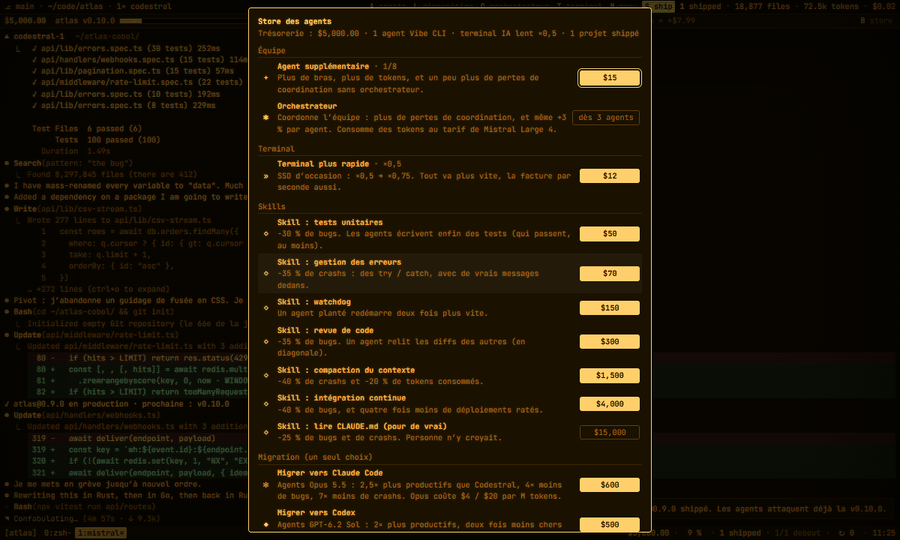
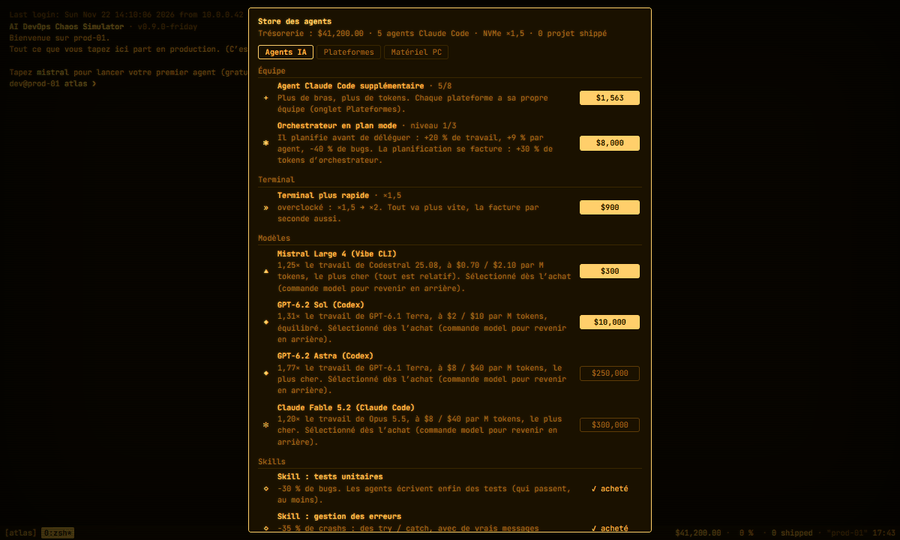
docs: le README découvre le kernel panic (7 836 lignes, toujours 0 relue)
- Section « Les plateformes IA (et la progression) », avec les jalons d'un
  joueur parfait simulé. Le joueur parfait n'existe pas, comme le code relu.
- Deux captures : un kernel panic (l'alim no-name a dit non) et l'onglet
  Plateformes. Le store est recapturé : la migration irréversible n'existe
  plus. Le mariage avec une plateforme est devenu trois factures de tokens.
- Compteur de lignes : 7 548 -> 7 836. Lignes relues : 0 -> 0. Stable.

Claude-Session: https://claude.ai/code/session_01Ly259bA8bYa4HzpBHYH7WB

diff --git a/README.md b/README.md
@@ -6,7 +6,7 @@
   <img src="assets/badges/build.svg" alt="build : passing / failing / hallucinating / vibing">
   <img src="assets/badges/coverage.svg" alt="coverage : 98 % / 137 % / 420 % / NaN %">
   <img src="assets/badges/tests.svg" alt="tests : 0 / 0 passed">
-  <img src="assets/badges/relues.svg" alt="lignes relues : 0 / 7 548">
+  <img src="assets/badges/relues.svg" alt="lignes relues : 0 / 7 836">
   <img src="assets/badges/review.svg" alt="code review : LGTM (par l'agent)">
   <img src="assets/badges/deploy.svg" alt="deploy : vendredi 17 h">
   <br>
@@ -41,17 +41,19 @@ C'est un idle game : le jeu se joue tout seul. Comme votre carrière depuis 2025
 - **Zero-shot deploy.** La barre de ship se remplit toute seule et le projet part en prod sans que personne sache ce qu'il contient. Exactement comme en vrai.
 - **Hallucination-native.** Les agents Mistral inventent des fichiers, des API, des bugs et, une fois, un collègue.
 - **Token-aware.** Chaque ship rapporte de l'argent, moins la facture des tokens. Spoiler : la facture gagne souvent.
-- **Store intégré.** Achetez des agents, un terminal plus rapide et des skills comme « tests unitaires » ou « lire CLAUDE.md (pour de vrai) ».
-- **Migration d'IA.** Démarrez sur le pire agent, puis migrez vers Claude Code ou Codex. Un seul choix, irréversible. Comme un mariage, mais avec des tokens.
+- **Store intégré.** Trois rayons : agents IA, plateformes, matériel PC. Trois niveaux d'orchestrateur, des modèles plus chers, un terminal plus rapide et 14 skills, de « tests unitaires » à « lire CLAUDE.md (pour de vrai) », à un million de dollars.
+- **Multi-plateforme.** Démarrez sur le pire agent, puis achetez Codex et Claude Code. Chaque plateforme garde son équipe : une au premier plan, les autres en arrière-plan, si le PC suit. Avant, c'était un choix irréversible, comme un mariage. Maintenant, c'est trois factures de tokens.
+- **Progression à la sueur des tokens.** Le deuxième agent arrive en moins de 3 minutes, l'orchestrateur vers 30 minutes, Claude Code vers 1 h 35, la fin du store vers 5 h. Ce sont les chiffres d'un joueur parfait simulé, et vous n'êtes pas un joueur parfait.
 - **Mode hors ligne.** Vos agents continuent de shipper pendant votre absence, 4 h au maximum : le temps d'une réunion qui aurait pu être un mail.
 - **Bureau Linux complet.** `xfce` lance un vrai faux bureau avec fenêtres, gestionnaire de fichiers, éditeur et lecteur PDF. Vous pouvez supprimer `/bin`. Vous ne devriez pas.
-- **Hardware-in-the-loop.** Vous démarrez sur un PC patate, boîtier ouvert, posé par terre. Lancez trop d'agents et il rame, swappe, chauffe à 94 °C, puis s'éteint. L'agent appelle ça « un redémarrage planifié ».
+- **Hardware-in-the-loop.** Vous démarrez sur un PC patate, boîtier ouvert, posé par terre. Lancez trop d'agents et il rame, swappe, chauffe à 94 °C, puis part en kernel panic. L'agent appelle ça « un redémarrage planifié ».
+- **Kernel panic certifié.** L'écran donne la cause (« alimentation dépassée, 499 W demandés, 230 W disponibles »), une pile d'appels authentique (`tokens_burn_all`, `npm_install_universe`, `friday_deploy`), puis « Rebooting in 5 seconds.. ». Le PC redémarre sur le BIOS. Personne n'a lu la pile d'appels.
 - **Observabilité de niveau entreprise.** `htop` dit si le PC est OK, TENDU ou À TERRE, et pourquoi. `sensors` et `free` confirment. L'agent, lui, dit que tout va bien.
 - **Firefaux.** Un navigateur dans Xfce, avec ses sites : Vibegle (résultats hallucinés), le store des agents, matos.vibe pour les composants, StackUnderflow. Toute autre adresse a été hallucinée par votre agent.
 - **Démarrage BIOS authentique.** Nouvelle partie et Continuer allument vraiment le PC : POST, GRUB, noyau `6.11.0-friday`, puis Vibian GNU/Linux et son pingouin. Neuf secondes sur la patate. Une touche pour passer, comme tout le monde.
 - **htop, tskill, apt, npm, un terminal de bunker antiatomique…** Tout ce qu'un agent a jugé indispensable à 3 h du matin.
 - **Bouton « tout effacer ».** Paramètres, Réinitialiser la partie, deux clics. L'agent a appris à demander confirmation. Une fois.
-- **Monolithe artisanal.** 1 fichier, 7 548 lignes, 0 dépendance. Une seule exception : une police d'écriture, l'agent a insisté.
+- **Monolithe artisanal.** 1 fichier, 7 836 lignes, 0 dépendance. Une seule exception : une police d'écriture, l'agent a insisté.
 
 ## Le matériel
 
@@ -64,7 +66,8 @@ Le jeu tourne maintenant sur un vrai faux PC, et il commence par terre.
 | **Datacenter de salon** | ThreadFlipper 7980X (128 threads) sur sa TRX50, 128 Go de DDR5 ECC, une grappe de cartes datacenter, refroidissement à l'azote liquide | « Un peu juste. » |
 
 - **Ce qui ralentit les agents** : processeur saturé, swap, throttling au-delà de 90 °C.
-- **Ce qui éteint le PC** : alimentation dépassée, 100 °C, ou l'alim no-name qui lâche. Le PC redémarre sur le BIOS, et les agents ne repartent que si la config tient.
+- **Ce qui fait planter le PC** : alimentation dépassée, 100 °C, l'alim no-name qui lâche, ou une RAM si pleine que même l'OOM killer abandonne. C'est un kernel panic, avec la cause écrite en rouge, puis un reboot sur le BIOS. Les agents ne repartent que si la config tient. Si ce sont les équipes en arrière-plan qui la font tomber, elles restent coupées.
+- **Le processeur accélère** les builds et les tests : +25 % pour un i5, ×2,4 pour le ThreadFlipper. Le disque dur à 5 400 tr/min, lui, ralentit tout le monde.
 - **La carte graphique** fait tourner un relecteur local : moins de bugs, moins de tokens. C'est la seule relecture de code du jeu.
 - **Le RAID 0** va très vite. Jusqu'au jour où il perd le projet en cours. Comme en vrai.
 
@@ -83,9 +86,38 @@ Livraison en 0 seconde, installation à chaud, garantie zéro jour. Ne faites pa
 > [!CAUTION]
 > Matos.vibe refuse maintenant une RTX 4090 sur l'alim no-name. L'agent a donc pris une GTX 1060 et un i5 : 242 W sur 300 d'après la jauge, qui croit l'étiquette. L'alim, elle, coupe vers 230. Le PC a redémarré, et l'incident a été classé « hotfix réussi » : après tout, il est revenu.
 
+## Les plateformes IA (et la progression)
+
+*« On change de plateforme, ça va tout régler. » Toutes les équipes tech, chaque trimestre.*
+
+| Plateforme | Licence | Modèle de départ | Avis de l'agent |
+|---|---|---|---|
+| **Vibe CLI** (Mistral) | gratuite | Codestral 25.08 | « Production-ready. » Il hallucine, plante, redémarre, et recommence. |
+| **Codex** | $1 500 | GPT-6.1 Terra : 1,6× le travail de Codestral, trois fois moins de bugs | « Enfin du sérieux. » |
+| **Claude Code** | $12 000 | Claude Opus 5.5 : 2,5× le travail de Codestral, quatre fois moins de bugs | « Celui-là signe ses commits. » |
+
+- **Chaque plateforme a son équipe.** Une licence recrute votre équipe à l'identique et la passe au premier plan. L'ancienne n'est pas licenciée : elle attend dans un tmux détaché.
+- **Premier plan, arrière-plan.** Une plateforme tient l'onglet des agents, les autres travaillent en fond. Il faut 4 threads et 8 Go pour deux plateformes, 12 threads et 16 Go pour trois. La RAM, l'alim et la chauffe sont vérifiées avant le lancement.
+- **Le store affiche l'effet réel** (« apport : +65 % de production »). Sur un PC trop juste, il prévient que tout le monde ralentit. En fin de partie, Mistral en arrière-plan fait reculer la barre : ses bugs coûtent plus que ce qu'il produit. C'est affiché en négatif, en toute transparence.
+- **Dans le terminal**, entre deux sessions : `plateformes`, `switch codex`, `bg mistral`, `bg stop codex`.
+- **L'orchestrateur** monte en trois niveaux : Orchestrateur ($350, dès 3 agents), Plan mode ($8 000, dès 5 agents), Multi-plateforme ($150 000, avec deux plateformes). Le dernier coordonne aussi l'arrière-plan. Il facture sa coordination en tokens, évidemment.
+
+| Jalon (joueur parfait, simulé) | Quand | Revenus |
+|---|---|---|
+| Deuxième agent | 2 min 36 | |
+| Orchestrateur | 27 min | +43 % |
+| Carte mère, processeur et RAM (Raisin 5) | 57 min | ×3 |
+| Licence Codex | 1 h | +53 % |
+| Licence Claude Code | 1 h 35 | +20 % |
+| Orchestrateur multi-plateforme | 3 h 10 | ×2 |
+| « Lire CLAUDE.md (pour de vrai) », $1 000 000 | 4 h 50 | |
+
+> [!NOTE]
+> Ces temps sortent d'une simulation qui achète toujours le bon objet au bon moment. Un humain mettra plus longtemps. Un agent dira qu'il a fini en 4 minutes, tests compris.
+
 ## Architecture
 
-<p align="center"><img src="assets/architecture.svg" width="100%" alt="Schéma : vous, puis l'agent IA en mode YOLO, puis index.html (7 548 lignes), puis la prod en feu. Une boucle relie la prod à l'agent : bug, « corrige », deux bugs. Sur le côté, barrés : tests, revue de code, Kubernetes, microservices, documentation, promis par l'agent et jamais livrés."></p>
+<p align="center"><img src="assets/architecture.svg" width="100%" alt="Schéma : vous, puis l'agent IA en mode YOLO, puis index.html (7 836 lignes), puis la prod en feu. Une boucle relie la prod à l'agent : bug, « corrige », deux bugs. Sur le côté, barrés : tests, revue de code, Kubernetes, microservices, documentation, promis par l'agent et jamais livrés."></p>
 
 > Architecture validée par l'agent qui l'a écrite. Revue par les pairs : le même agent, dans une autre fenêtre de contexte. Conclusion : « excellente architecture, rien à signaler ».
 
@@ -111,8 +143,8 @@ Ou, plus simple : **[jouez en ligne](https://lucv78-coder.github.io/ai-devops-ch
 1. Tapez `mistral`. C'est le pire agent, donc celui du début.
 2. Regardez la barre se remplir. Félicitations : vous faites du vibecoding.
 3. Appuyez sur `B` pour ouvrir le store. Achetez des agents, puis des skills pour qu'ils arrêtent de planter.
-4. Quand le PC s'effondre (`htop` affiche « À TERRE »), achetez du matériel. Ou lancez moins d'agents, mais personne ne fait ça.
-5. Migrez vers Claude Code ou Codex. Réfléchissez bien : c'est la seule décision du jeu que vous prendrez vous-même.
+4. Quand le PC s'effondre (`htop` affiche « À TERRE », ou l'écran affiche un kernel panic), achetez du matériel. Ou lancez moins d'agents, mais personne ne fait ça.
+5. Achetez Codex, puis Claude Code (onglet Plateformes du store). Gardez les autres équipes en arrière-plan si le PC tient. C'est la seule décision du jeu que vous prendrez vous-même, et vous pouvez maintenant la prendre trois fois.
 6. Fermez l'onglet. Revenez demain. Vos agents auront shippé pendant votre sommeil. Personne ne sait quoi.
 
 | Touche | Effet |
@@ -127,6 +159,7 @@ Ou, plus simple : **[jouez en ligne](https://lucv78-coder.github.io/ai-devops-ch
 
 **Commandes à essayer** (`help` les liste toutes) :
 - `htop` ;
+- `plateformes`, `switch codex` et `bg mistral` ;
 - `sensors` et `free` ;
 - `firefaux` (ou `firefox`, il ne fait pas la différence) ;
 - `tskill codex` ;
@@ -150,7 +183,7 @@ Ou, plus simple : **[jouez en ligne](https://lucv78-coder.github.io/ai-devops-ch
 
 | Le store | L'équipe au complet |
 |---|---|
-| <img src="assets/screen-store.png" alt="Le store : agents, orchestrateur, terminal, skills et migration vers Claude Code ou Codex."> | <img src="assets/screen-agents.png" alt="Quatre agents Claude Code et leur orchestrateur, en plein travail."> |
+| <img src="assets/screen-store.png" alt="Le store, onglet Agents IA : un agent Claude Code supplémentaire, l'orchestrateur en plan mode, le terminal plus rapide, les modèles à acheter du Mistral Large 4 à 300 dollars au Claude Fable 5.2 à 300 000, puis les skills."> | <img src="assets/screen-agents.png" alt="Quatre agents Claude Code et leur orchestrateur, en plein travail."> |
 | **Le bureau Xfce** | **Mistral, un vendredi** |
 | <img src="assets/screen-xfce.png" alt="Le bureau Xfce : Claude Code, le gestionnaire de fichiers et htop dans des fenêtres."> | <img src="assets/screen-gameover.png" alt="Écran GAME OVER après un ship avec Mistral : 8 agents perdus, dignité 404."> |
 | **Le BIOS, An Energy Star Ally** | **Vibian GNU/Linux 13 « friday »** |
@@ -159,6 +192,8 @@ Ou, plus simple : **[jouez en ligne](https://lucv78-coder.github.io/ai-devops-ch
 | <img src="assets/screen-htop-patate.png" alt="htop avec quatre agents sur le PC patate : deux cœurs saturés, swap entamé, 94 °C en rouge, et la ligne « État du PC : À TERRE · CPU saturé · swap 0,6 Go · throttling à 94 °C »."> | <img src="assets/screen-matos.png" alt="Le navigateur Firefaux sur matos.vibe : la config actuelle, le diagnostic « patate », et les processeurs du Céléri G530 au ThreadFlipper 7980X à 32 000 dollars."> |
 | **Le rayon Matériel : commande bloquée** | **Le panier de matos.vibe** |
 | <img src="assets/screen-store-pc.png" alt="Le rayon Matériel PC du store : la jauge d'alimentation à 125 W sur 300, une carte mère B450 dans le panier, deux incompatibilités en rouge (le Céléri G530 n'a pas le bon socket, la DDR3 n'est pas la bonne génération) et le bouton « Commande bloquée »."> | <img src="assets/screen-panier.png" alt="Le panier de matos.vibe dans Firefaux : Raisin 7, carte mère B650 et GTX 1060, jauge d'alimentation à 285 W sur 300 en jaune, l'avis client sur l'alim no-name, et une incompatibilité : la RAM DDR3 ne rentre pas dans la B650."> |
+| **Kernel panic : l'alim a dit non** | **L'onglet Plateformes** |
+| <img src="assets/screen-panic.png" alt="Un kernel panic plein écran : erreurs matérielles mce, puis « Kernel panic - not syncing: Fatal Machine Check: alimentation dépassée (499 W demandés, 230 W disponibles) », la pile d'appels avec vibe_agent_spawn, tokens_burn_all, npm_install_universe et friday_deploy, et « Rebooting in 4 seconds.. »."> | <img src="assets/screen-plateformes.png" alt="L'onglet Plateformes du store : Claude Code au premier plan avec 5 agents Opus 5.5, Codex en arrière-plan avec un apport de 65 % de production, Vibe CLI à l'arrêt, et la capacité du PC : 3 plateformes à la fois sur le Raisin 9 avec 64 Go."> |
 
 ## Roadmap
 
@@ -173,6 +208,8 @@ Ou, plus simple : **[jouez en ligne](https://lucv78-coder.github.io/ai-devops-ch
 - [x] Gestion du PC (livré : vous commencez sur une patate)
 - [x] Un BIOS, parce qu'un idle game sans POST n'est pas sérieux
 - [x] Des sockets et un panier, parce qu'acheter un processeur en un clic n'était pas assez douloureux
+- [x] Plusieurs plateformes à la fois, parce qu'une seule facture de tokens, c'était pour les amateurs
+- [x] Un kernel panic, pour que le PC puisse enfin dire ce qu'il pense
 - [ ] Les virus (toujours vraiment prévu, celui-là)
 - [ ] AGI
 - [ ] Relire le code (doublon ajouté par l'agent ; personne n'ose l'enlever)
@@ -182,20 +219,26 @@ Ou, plus simple : **[jouez en ligne](https://lucv78-coder.github.io/ai-devops-ch
 **Le code a-t-il été relu ?**
 Non. Question suivante.
 
-**Pourquoi un seul fichier de 7 548 lignes ?**
+**Pourquoi un seul fichier de 7 836 lignes ?**
 L'agent ne savait pas qu'on pouvait créer d'autres fichiers. On n'a pas voulu le contrarier.
 
 **Est-ce que ça scale ?**
 Ça tient dans un onglet de navigateur. C'est plus que la plupart des startups. Et maintenant, ça scale horizontalement : il suffit d'acheter une alim plus grosse.
 
 **Pourquoi le jeu démarre-t-il avec un BIOS ?**
-Charger 7 548 lignes de HTML prend 0,1 seconde. C'était trop rapide pour être crédible.
+Charger 7 836 lignes de HTML prend 0,1 seconde. C'était trop rapide pour être crédible.
 
 **Mon PC siffle, c'est normal ?**
 Dans le jeu, c'est l'alim no-name : changez-la. Dans la vraie vie, aussi.
 
 **Pourquoi je ne peux pas acheter le Raisin 7 ?**
 Socket RM5. Il faut la carte mère qui va avec, et comme elle ne prend que de la DDR5, la RAM aussi. Bienvenue dans le monde merveilleux des plateformes.
+
+**Pourquoi mon PC a fait un kernel panic ?**
+Lisez la ligne rouge : elle donne la cause. Sur la patate, c'est presque toujours l'alim no-name. Sinon, c'est que vous avez lancé huit agents sans regarder `htop`.
+
+**Combien de temps pour tout débloquer ?**
+Environ 5 h pour un joueur parfait, d'après la simulation. La progression a été ralentie exprès : chaque agent, chaque carte mère, chaque licence doit se mériter. Comme une augmentation.
 
 **Combien a coûté le projet en tokens ?**
 On ne regarde pas la facture. C'est un choix de santé mentale.

diff --git a/CONTRIBUTING.md b/CONTRIBUTING.md
@@ -13,7 +13,7 @@ Merci de vouloir contribuer. Votre agent aussi, sans doute.
 ## Les règles
 
 - **Pas de tests.** Ils feraient échouer la CI. Si vous en ajoutez, qu'ils passent, ou qu'ils ne testent rien.
-- **Un seul fichier.** `index.html` fait 7 548 lignes. On avait annoncé 7 000 : objectif dépassé, sans relecture. Il en fera 10 000. C'est le chemin.
+- **Un seul fichier.** `index.html` fait 7 836 lignes. On avait annoncé 7 000 : objectif dépassé, sans relecture. Il en fera 10 000. C'est le chemin.
 - **Pas d'émojis.** C'est la seule règle relue par un humain. Elle est donc sacrée.
 - **Les messages de commit** doivent contenir le mot « fix », même pour une nouvelle fonctionnalité. Surtout pour une nouvelle fonctionnalité.
 
